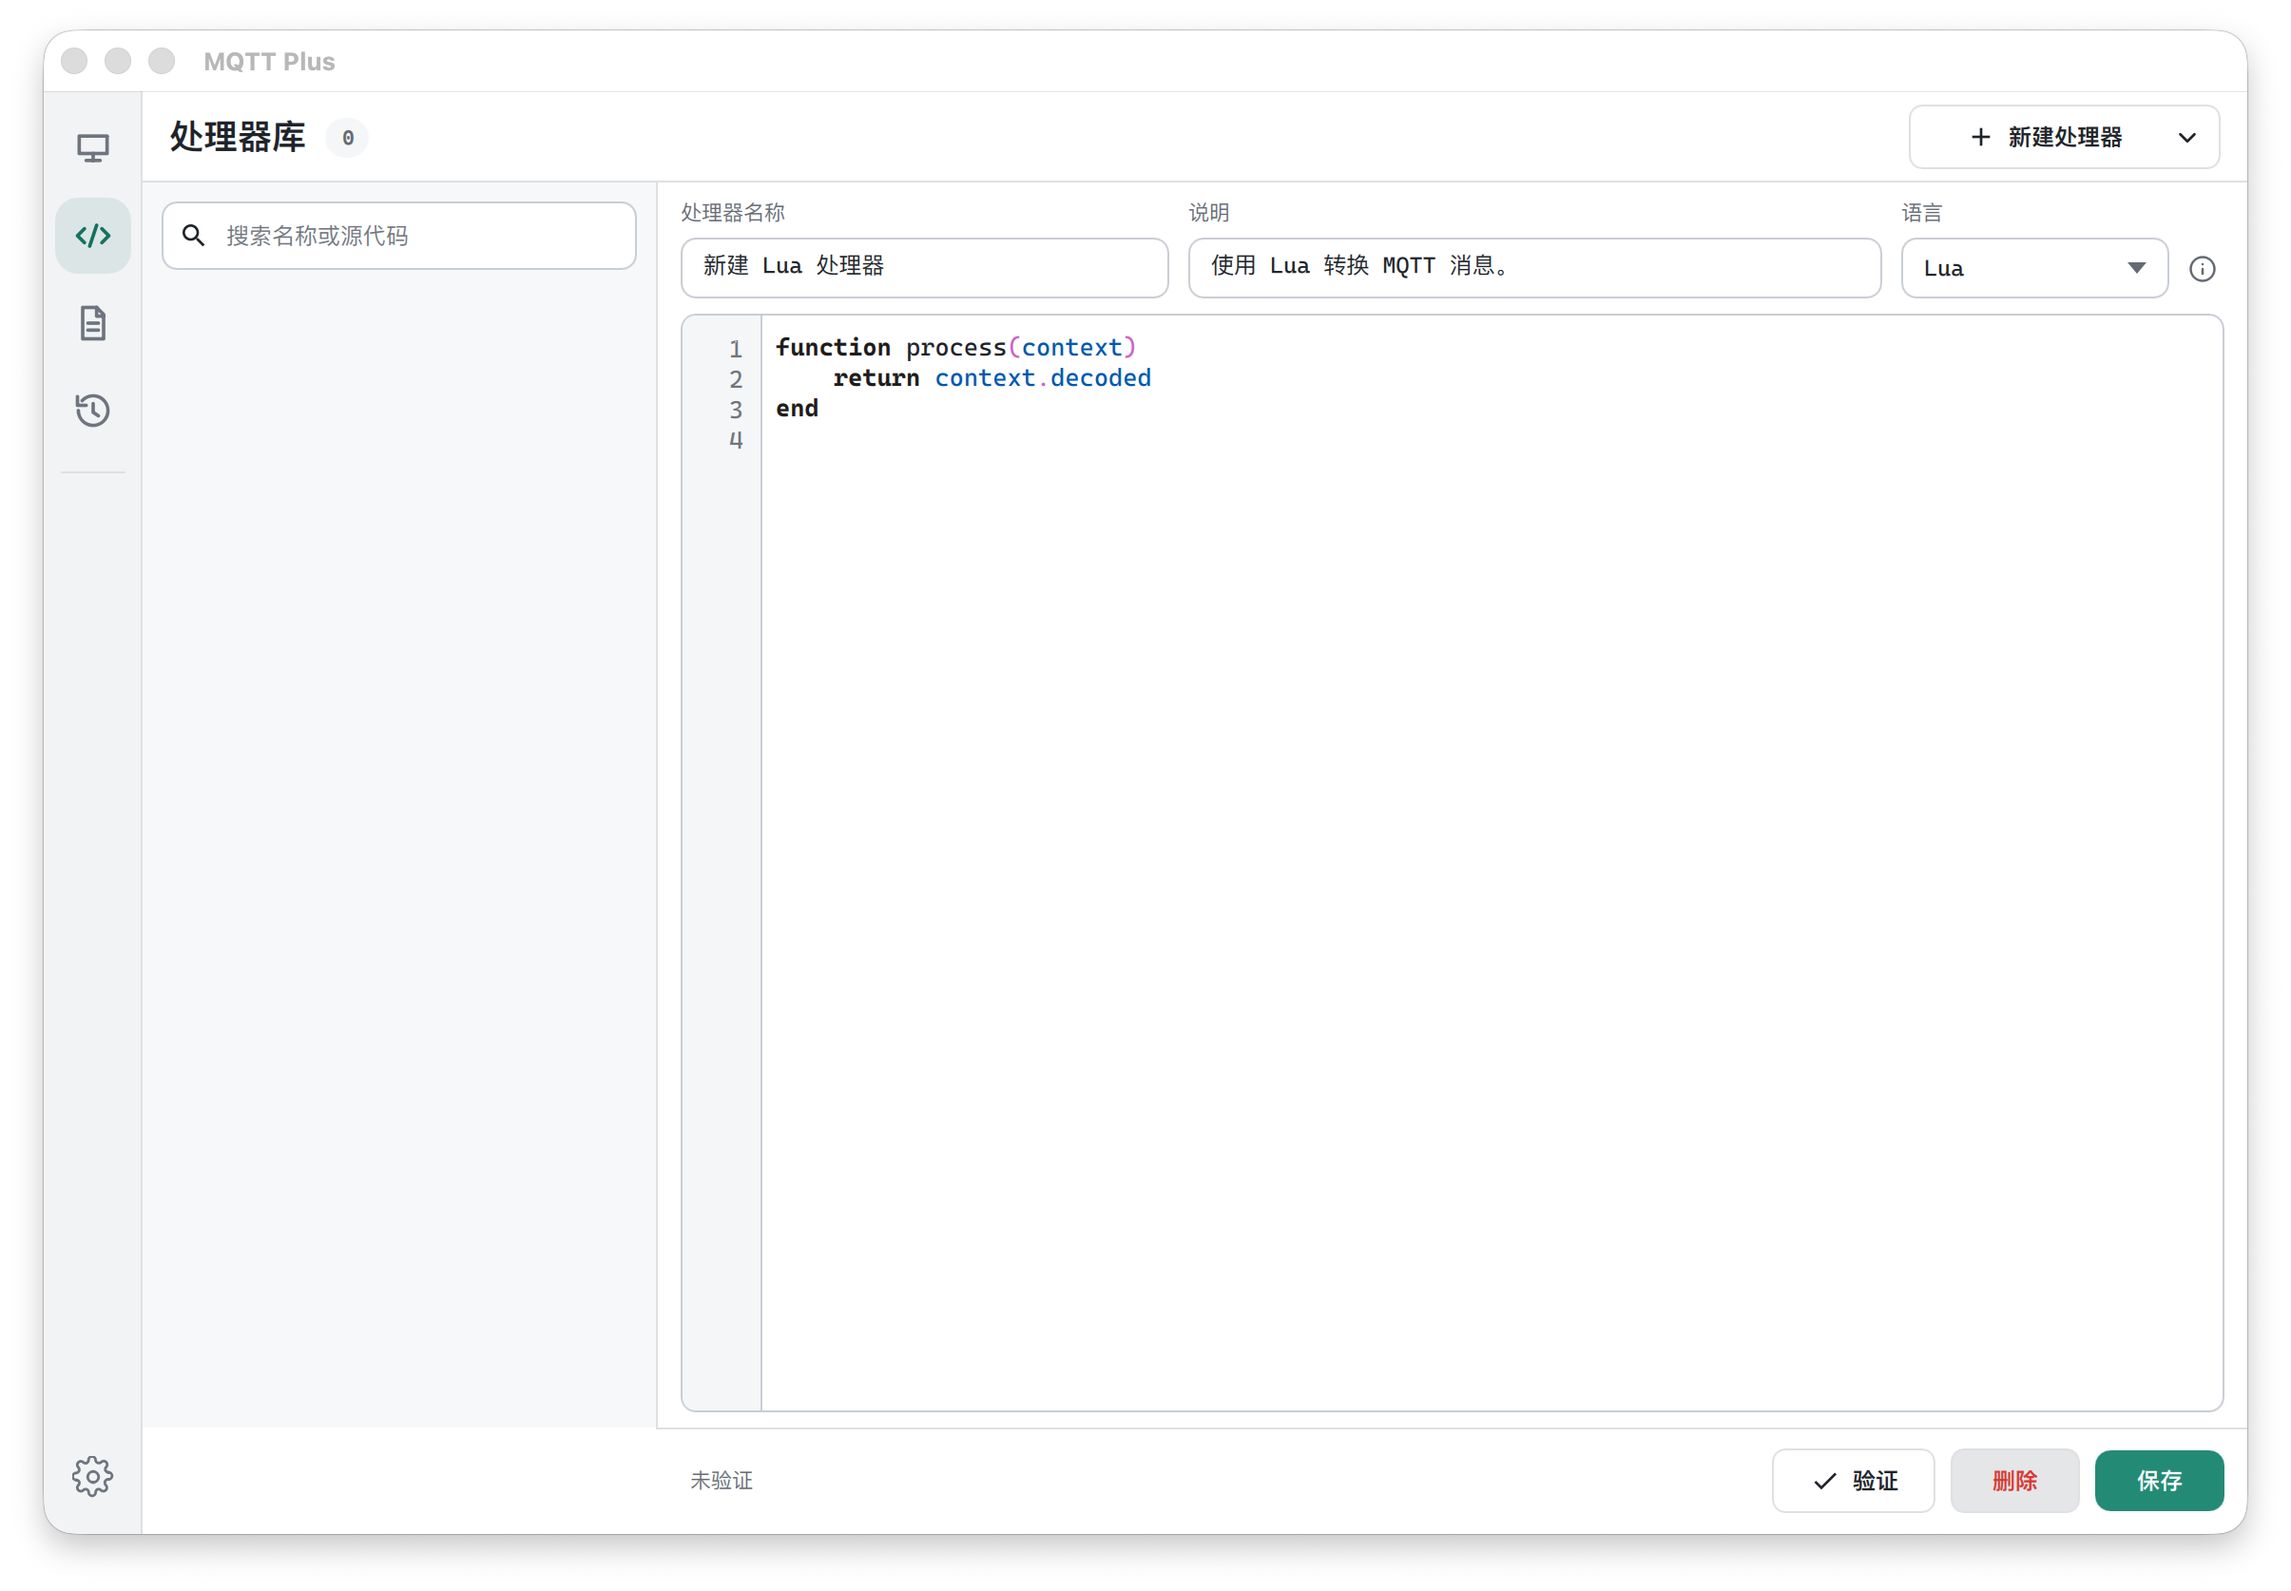
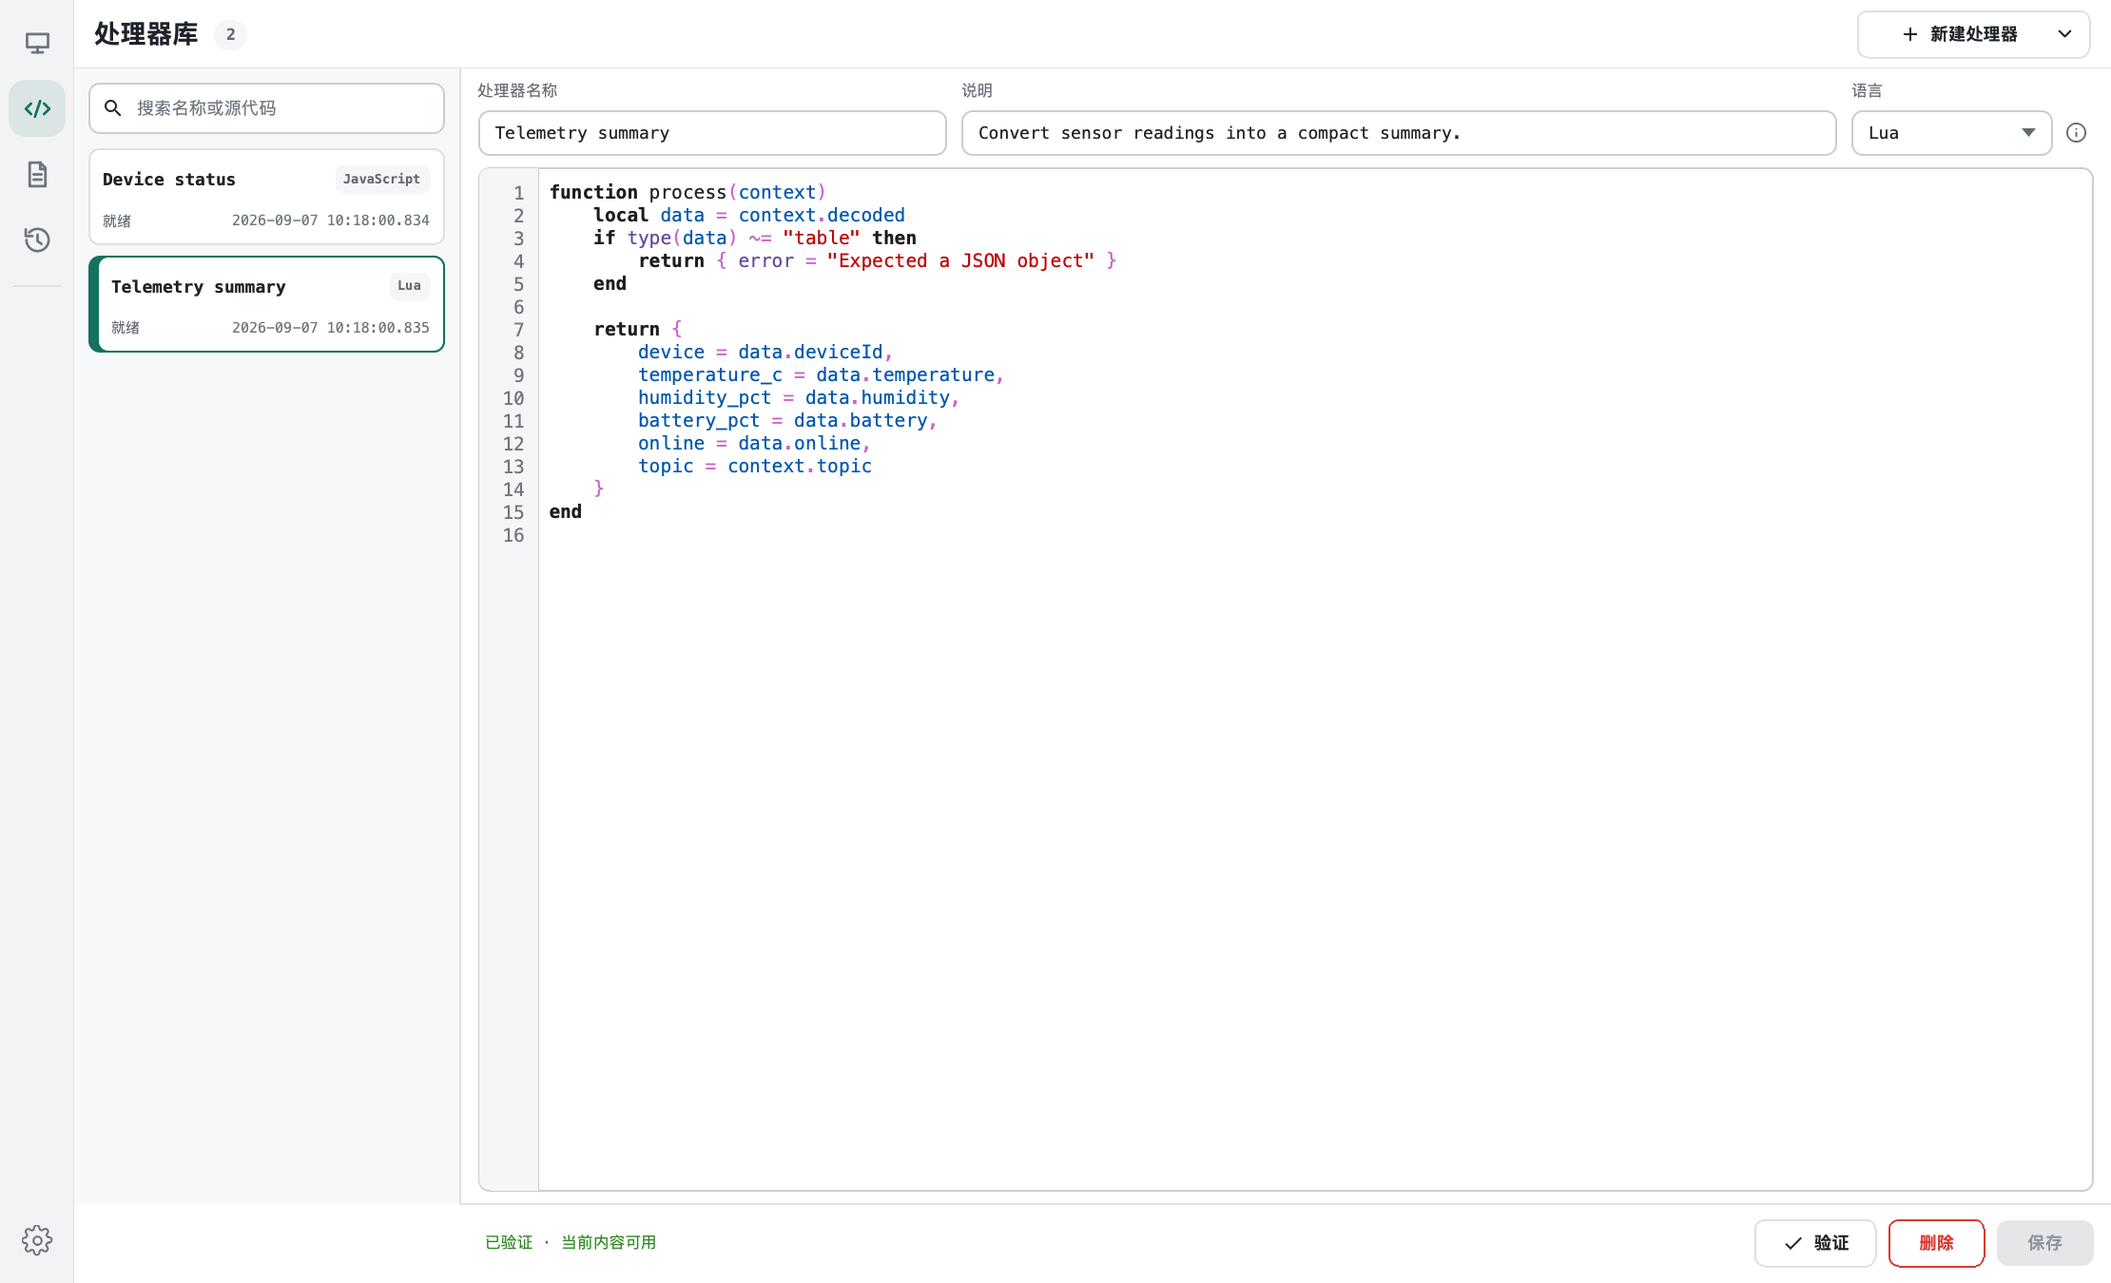
Update project documentation and feature screenshots

diff --git a/README.en.md b/README.en.md
@@ -4,17 +4,32 @@
 
 English | [简体中文](README.md)
 
-MQTT Plus is a cross-platform desktop client for MQTT development, integration testing, and troubleshooting. It brings multiple connections, subscriptions and publishing, persistent message streams, and programmable payload processing into one local workbench.
+MQTT Plus is an open-source MQTT desktop client for IoT developers, device engineers, and testing teams. Connect to brokers, explore topics, decode messages, send commands, and revisit history in one local workbench.
+
+**Windows · macOS · Linux | MQTT 5.0 / 3.1.1 | TCP / TLS / WebSocket | English / Chinese**
 
 [Download the latest release](https://github.com/zouri/mqtt-plus/releases/latest) · [Quick start](#downloads-and-quick-start) · [Report an issue](https://github.com/zouri/mqtt-plus/issues)
 
-![MQTT Plus workbench with connections, subscriptions, message stream, and publish composer](docs/images/mqtt-plus-workbench.png)
+![MQTT Plus workbench with topic tree, latest message details, MQTT 5 properties, and publish composer](docs/images/mqtt-plus-workbench.png)
+
+*Screenshots show the actual 0.5.0 interface with isolated demo configuration and fictional device data. Connection addresses use localhost only; no external broker was connected.*
 
 ## Why MQTT Plus
 
-- **Debug MQTT in one place:** manage multiple connections, subscribe to topics, inspect messages, and compose publishes in the same workbench.
+- **Debug MQTT in one place:** manage multiple connections, browse traffic through the topic tree, inspect messages, and compose publishes in the same workbench.
 - **Make payloads easier to understand:** inspect common text and binary formats directly, or bind Lua and JavaScript processors to subscriptions.
 - **Keep reproducible debugging context:** store messages, logs, publish drafts, processor revisions, and connection configuration locally.
+
+## What You Can Do
+
+| Workflow | How MQTT Plus helps |
+| --- | --- |
+| Integrate devices and test commands | Manage multiple broker connections, subscribe to device reports, and publish JSON or binary commands |
+| Explore an unfamiliar topic structure | Expand observed topics, inspect recent payloads and activity, and quickly subscribe to a topic or subtree |
+| Investigate unexpected message behavior | Inspect message details, QoS, Retain, MQTT 5 properties, and separate runtime logs |
+| Decode custom device data | Use built-in codecs or transform decoded results with Lua / JavaScript |
+| Repeat a command during testing | Save publish drafts, create drafts from messages, and reuse recent publishes |
+| Migrate a debugging setup | Import MQTTX connections or import and export MQTT Plus configuration |
 
 ## Downloads and Quick Start
 
@@ -28,17 +43,46 @@ MQTT Plus is a cross-platform desktop client for MQTT development, integration t
 
 1. Download and install the package for your platform from Releases.
 2. Start MQTT Plus, create a connection, and enter the broker address, port, and any required authentication or TLS settings.
-3. Connect, add a subscription, and choose its QoS and payload format to start inspecting the message stream.
+3. Connect, add a subscription, and choose its QoS and payload format to start inspecting the message stream. Once messages arrive, use the Topics tab to browse observed topics as a hierarchy.
 4. Use the publish composer at the bottom of the workbench to send messages. Bind a message processor when custom parsing is required.
 
 MQTT Plus does not include a broker. You need access to an MQTT broker before getting started.
 
+### Send Your First Message
+
+Use a test broker you are authorized to access and verify a round trip on the same connection:
+
+| Setting | Example |
+| --- | --- |
+| Subscription topic | `demo/my-device-001/#` |
+| Subscription QoS / payload format | `0` / `JSON` |
+| Publish topic | `demo/my-device-001/telemetry` |
+| Publish QoS / payload format | `0` / `JSON` |
+| Retain | Off |
+
+Subscribe first, then send this simulated payload using the publish composer:
+
+```json
+{
+  "deviceId": "my-device-001",
+  "temperature": 23.7,
+  "online": true
+}
+```
+
+The incoming message should appear in the stream. In the Topics tab, expand `demo → my-device-001 → telemetry` to see the topic and latest payload preview. If the MQTT 5 No Local subscription option is enabled, disable it first or publish from a second connection.
+
+The example topic and data are fictional. On shared brokers, replace the prefix with a unique test prefix, send only non-sensitive data, and never publish commands to someone else's topics.
+
 ## Features
 
-- MQTT 5.0 and MQTT 3.1.1 over TCP or TLS, with username/password authentication, server certificate verification, and client certificates.
+- MQTT 5.0 and MQTT 3.1.1 over TCP, TLS, WebSocket, and secure WebSocket, with username/password authentication, server certificate verification, and client certificates.
+- Last Will messages and MQTT 5 properties, including session expiry, message expiry, content type, response topic, correlation data, and user properties.
 - Multiple connection management; QoS 0/1/2 subscriptions and publishing; retained messages, subscription pausing, and message filtering.
+- An expandable topic tree built from received traffic, with live activity, latest-payload previews, and quick actions for subscribing to a topic or subtree.
 - Plaintext, JSON, Base64, Hex, CBOR, and MsgPack payload encoding and decoding.
 - Messages and runtime logs stored separately in SQLite, with pagination, filtering, and cleanup controls.
+- Message capture rules for incoming/outgoing traffic and topic include/exclude filters to keep unrelated traffic out of history.
 - Publish drafts, recent publish history, and quick draft creation from messages.
 - Lua 5.5 and JavaScript message processors that can be bound to subscriptions and retain revision history.
 - MQTT Plus configuration import/export and MQTTX connection configuration import.
@@ -46,11 +90,21 @@ MQTT Plus does not include a broker. You need access to an MQTT broker before ge
 
 ## More Screenshots
 
+### Subscriptions and Message Stream
+
+Distinguish device traffic with subscription aliases and colors, inspect JSON messages, and prepare commands in the same workbench. The opening screenshot shows the Topics view: expand the hierarchy and select a node to inspect its latest message, MQTT 5 properties, and decoded result.
+
+![MQTT Plus subscriptions with device groups, JSON message stream, and QoS publish composer](docs/images/mqtt-plus-messages.png)
+
 ### Message Processors
+
+Turn device reports into readable results, validate scripts in the editor, and bind them to subscriptions. Revision history preserves changes to the processing logic.
 
 ![MQTT Plus message processor with Lua script editing and validation](docs/images/mqtt-plus-processors.png)
 
 ### Preferences
+
+Choose the interface language, light or dark theme, accent color, and font, then adjust message expansion and the auto-follow refresh rate.
 
 ![MQTT Plus preferences for theme, font, language, and workbench behavior](docs/images/mqtt-plus-settings.png)
 
@@ -63,7 +117,7 @@ MQTT Plus does not include a broker. You need access to an MQTT broker before ge
 - Qt 6.11
 - Ninja or another CMake generator
 
-Qt must include Concurrent, Core, Gui, Network, Qml, Quick, Quick Controls 2, Sql, Svg, Test, and LinguistTools. During the first configuration, CMake downloads pinned versions of Lua, KSyntaxHighlighting, and Extra CMake Modules. If Qt MQTT is not installed locally, CMake also downloads and builds Qt MQTT 6.11.1.
+Qt must include Concurrent, Core, Gui, Network, Qml, Quick, Quick Controls 2, Sql, Svg, Test, LinguistTools, and WebSockets. During the first configuration, CMake downloads pinned versions of Lua, KSyntaxHighlighting, and Extra CMake Modules. If Qt MQTT is not installed locally, CMake also downloads and builds Qt MQTT 6.11.1.
 
 ### Configure and Build
 
@@ -147,7 +201,21 @@ tests/            Qt Test suites
 docs/adr/         Architecture decision records
 ```
 
-## Local Data
+## FAQ
+
+**Why is the topic tree empty?**
+
+The tree is built from received messages, not a directory of every topic on the broker. Subscribe to an authorized topic filter, such as `demo/my-device-001/#`, then send messages from a device or another client. Topics cannot be discovered without traffic.
+
+**Why are there no messages after connecting?**
+
+Check that the subscription succeeded, the published topic matches, the subscription is not paused, and message filters or capture rules are not excluding the traffic. Use runtime logs to investigate connection or permission issues.
+
+**Can I migrate from MQTTX?**
+
+MQTTX connection configuration can be imported. MQTT Plus also supports importing and exporting its own configuration. Check broker addresses, authentication, and certificate paths after migration.
+
+## Local Data and Privacy
 
 - Sessions and preferences are stored with `QSettings`.
 - Messages and logs are stored in `QStandardPaths::AppDataLocation/history.db`.
@@ -155,9 +223,10 @@ docs/adr/         Architecture decision records
 
 Session passwords are stored in the local `QSettings` store rather than the system credential vault. Configuration exports exclude passwords and certificates by default. Exports that include sensitive data should be treated as private files.
 
+Payloads, topics, logs, and publish drafts may also contain business data. Before sharing screenshots or filing issues, inspect the connection list, broker address, client ID, topics, payloads, certificate paths, and status bar. Use a separate demo configuration with fictional data rather than capturing a production or private test environment. See the [screenshot privacy checklist](docs/images/README.md).
+
 ## Roadmap
 
-- [ ] MQTT topic tree: build an expandable hierarchy from observed topics, with search, quick subscriptions, and the latest message and activity state for each node.
 - [ ] Broker status monitoring dashboard: summarize connection status, uptime, client and subscription counts, message throughput, and resource usage; automatically collect and visualize metrics from `$SYS` topics when the broker provides them.
 
 ## Help and Contributing

diff --git a/docs/images/README.md b/docs/images/README.md
@@ -1,0 +1,36 @@
+# 文档截图与隐私检查 / Screenshot Privacy Checklist
+
+README 中的配图应展示真实应用界面，但不能暴露个人或业务测试数据。当前四张 PNG 更新于 2026-09-07，来自 0.5.0 版本的真实 Qt Quick 界面。
+
+Documentation screenshots must show the real application without exposing personal or business test data. The four current PNGs were updated on 2026-09-07 using the actual Qt Quick interface from version 0.5.0.
+
+## 本次截图环境 / Capture Environment
+
+- 基于当前构建的 QML 资源和应用服务，由临时截图程序注入虚构消息，再通过 `QQuickWindow::grabWindow()` 抓取实际渲染画面；未重新绘制或用 AI 生成界面。A temporary capture harness used the current build's QML resources and application services, injected fictional messages, and captured actual rendering with `QQuickWindow::grabWindow()`, without redrawing or AI generation.
+- 使用 Qt offscreen 平台与软件渲染，窗口为 1480 × 900，输出为 2220 × 1350 PNG；不包含操作系统标题栏。Captured with Qt's offscreen platform and software renderer at a 1480 × 900 window size, producing 2220 × 1350 PNGs without OS window decorations.
+- 配置、消息库、草稿和处理器存储重定向到独立临时目录，自动更新检查关闭。Settings, message history, drafts, and processors were redirected to an isolated temporary directory; automatic update checks were disabled.
+- 仅展示 `localhost:1883` 与 `localhost:8083` 演示连接，均未连接；消息为模拟输入，不代表实时 Broker 流量。Only disconnected demo connections at `localhost:1883` and `localhost:8083` are shown. Messages are synthetic inputs, not live broker traffic.
+- 演示主题为 `demo/office/…` 与 `demo/warehouse/…`，设备编号、温湿度、灯光和电量数据均为虚构。Topics use `demo/office/…` and `demo/warehouse/…`; device IDs, temperature, humidity, lighting, and battery data are fictional.
+
+## 拍摄规范 / Capture Rules
+
+- 使用独立演示配置，不修改或清空日常使用的连接、历史和草稿。Use a separate demo configuration; do not modify or clear everyday connections, history, or drafts.
+- 使用本地测试 Broker 或允许公开演示的公共 Broker。不要连接私人环境来制作截图。Use a local test broker or a public broker suitable for demonstrations, not a private environment.
+- 主题使用 `demo/my-device-001/telemetry` 等虚构名称；载荷只放模拟温度、状态等非敏感数据。Use fictional topics and non-sensitive simulated payloads.
+- 逐项检查连接名称、域名、IP、账号、客户端 ID、主题、消息、脚本、日志、草稿、文件路径、状态栏和弹窗。Inspect connection names, domains, IPs, accounts, client IDs, topics, messages, scripts, logs, drafts, file paths, status bars, and dialogs.
+- 不得包含密码、令牌、私钥、证书内容、真实设备标识或业务域名。Never include passwords, tokens, private keys, certificate contents, real device identifiers, or business domains.
+- 保存后重新打开最终图片，检查整个画面及图片元数据，而不只是主内容区域。Reopen the final image and inspect the entire frame and metadata, not only the main content area.
+- 不用 AI 生成的界面代替产品截图。更新截图时同步检查中英文 README 的说明与图片链接。Do not substitute AI-generated interfaces for product screenshots. Keep both README captions and image links in sync.
+
+## 当前配图 / Current Images
+
+| 文件 / File | 内容 / Content | 隐私检查重点 / Privacy Focus |
+| --- | --- | --- |
+| `mqtt-plus-workbench.png` | 主题树、消息详情、MQTT 5 属性与发布编辑器 / Topic tree, message details, MQTT 5 properties, publishing | localhost、虚构主题与载荷、底部状态栏 / localhost, fictional topics and payloads, status bar |
+| `mqtt-plus-messages.png` | 订阅分组、JSON 消息流与发布编辑器 / Subscription groups, JSON messages, publishing | 演示订阅别名与虚构设备消息 / Demo subscription aliases and fictional device messages |
+| `mqtt-plus-processors.png` | Lua / JavaScript 处理器库及已验证的 Lua 脚本 / Lua and JavaScript library with a validated Lua script | 名称、描述和脚本中无真实业务数据 / No real business data in names, descriptions, or scripts |
+| `mqtt-plus-settings.png` | 外观与工作台设置 / Appearance and workbench settings | 无账号、私人路径或连接信息 / No accounts, private paths, or connection data |
+
+删除当前截图中的敏感内容不会移除 Git 历史里的旧文件。若未来发现已提交的凭据，应先撤销或轮换凭据，再单独安排历史清理。
+
+Removing sensitive content from a current screenshot does not remove older files from Git history. If committed credentials are discovered, revoke or rotate them first, then handle history cleanup separately.
